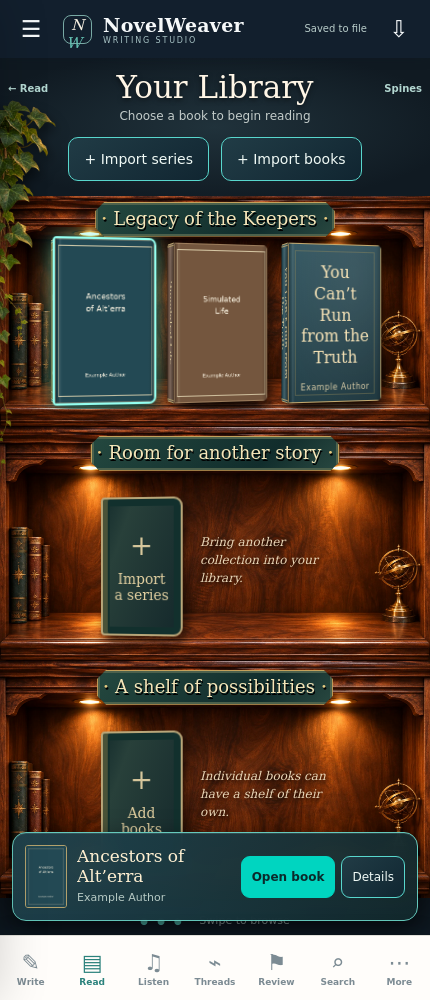
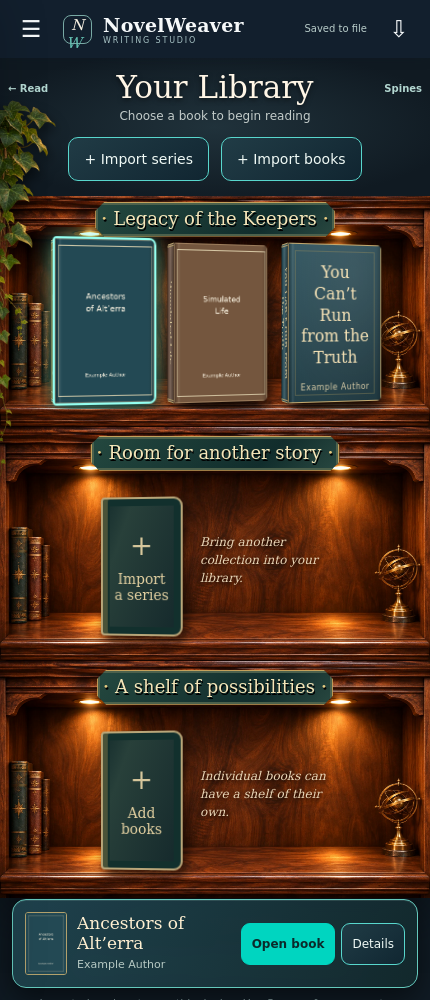
Hide bottom navigation while browsing the Bookcase in Android 2.3.6

Changed region(s): [[0.0, 0.806, 1.0, 1.0]]

diff --git a/app/src/main/assets/www/index.html b/app/src/main/assets/www/index.html
@@ -465,6 +465,11 @@ body.in-bookcase{background:#101b24}.in-bookcase .main-content{padding:0;max-wid
 /* A selected book becomes the inspection surface itself, without a dialog. */
 .bookcase-inspection{position:fixed;inset:0;z-index:55;perspective:1300px;isolation:isolate}.bookcase-inspect-shade{position:absolute;inset:0;width:100%;height:100%;border:0;background:#06131cbf;backdrop-filter:blur(4px);opacity:0;transition:opacity .5s}.bookcase-inspection.is-open .bookcase-inspect-shade{opacity:1}.bookcase-inspect-return{position:absolute;top:10px;left:50%;transform:translateX(-50%);min-height:44px;padding:10px 18px;border:1px solid #83bfb7;border-radius:24px;background:#132f37ed;color:#e3f6ec;font:13px var(--font-ui,sans-serif);white-space:nowrap;z-index:3}.bookcase-inspect-hint{position:absolute;bottom:max(16px,env(safe-area-inset-bottom));left:20px;right:20px;margin:0;text-align:center;color:#d3e8e1;font:12px/1.5 var(--font-ui,sans-serif);pointer-events:none;z-index:3}.bookcase-book.bookcase-inspected{--book-w:100%;--book-h:100%;position:fixed;margin:0;min-width:0;max-width:none;padding:0;z-index:2;touch-action:none;cursor:zoom-in;transition:left .55s cubic-bezier(.2,.7,.2,1),top .55s cubic-bezier(.2,.7,.2,1),width .55s cubic-bezier(.2,.7,.2,1),height .55s cubic-bezier(.2,.7,.2,1);perspective:none;outline-offset:6px}.bookcase-inspected .bookcase-volume{width:100%;height:100%;transform-style:preserve-3d;transform-origin:center;transition:transform .55s cubic-bezier(.2,.7,.2,1)}.bookcase-inspected:hover .bookcase-volume{transform:none}.bookcase-inspected .bookcase-cover{box-shadow:5px 12px 25px #0009}.bookcase-inspected .bookcase-cover img{object-fit:fill}.bookcase-book-back{position:absolute;inset:0;display:block;border-radius:4px 3px 3px 4px;transform:rotateY(180deg) translateZ(1px);backface-visibility:hidden;overflow:hidden;background:linear-gradient(140deg,#274a49,#142a30);box-shadow:0 16px 50px #0009;border:1px solid #c5b88a88}.bookcase-book-back>img{display:block;width:100%;height:100%;object-fit:fill;transform-origin:var(--pan-x,50%) var(--pan-y,50%);transition:transform .2s ease;user-select:none;pointer-events:none}.bookcase-book-back.is-zoomed>img{transform:scale(2)}.bookcase-inspect-missing{width:100%;height:100%;box-sizing:border-box;display:flex;flex-direction:column;justify-content:center;align-items:center;gap:24px;padding:30px;color:#f0e0b6;text-align:center;font:19px/1.5 Georgia,serif;border:6px double #ab946b88}.bookcase-inspect-missing strong{font:28px/1.3 Georgia,serif}.bookcase-inspect-missing small{font:13px/1.6 var(--font-ui,sans-serif);color:#c1d1c8}.bookcase-inspection button:focus-visible{outline:3px solid #79ddc9}.bookcase-inspected:after{display:none}.bookcase-inspect-slot{display:block;pointer-events:none}
 @media(prefers-reduced-motion:reduce){.bookcase-book.bookcase-inspected,.bookcase-inspected .bookcase-volume,.bookcase-inspect-shade,.bookcase-book-back>img{transition:none}}
+/* The bookcase uses its own Read return control instead of the bottom menu. */
+body.in-bookcase .bottom-nav{display:none}
+body.in-bookcase .bookcase-selection{bottom:calc(12px + env(safe-area-inset-bottom))}
+body.in-bookcase .bookcase-library{padding-bottom:124px}
+body.in-bookcase #quill-launcher{bottom:calc(136px + env(safe-area-inset-bottom))}
 
 </style><style>
 /* Compact running header in both native and fallback fullscreen readers. */

diff --git a/tools/bookcase.css b/tools/bookcase.css
@@ -27,3 +27,8 @@ body.in-bookcase{background:#101b24}.in-bookcase .main-content{padding:0;max-wid
 /* A selected book becomes the inspection surface itself, without a dialog. */
 .bookcase-inspection{position:fixed;inset:0;z-index:55;perspective:1300px;isolation:isolate}.bookcase-inspect-shade{position:absolute;inset:0;width:100%;height:100%;border:0;background:#06131cbf;backdrop-filter:blur(4px);opacity:0;transition:opacity .5s}.bookcase-inspection.is-open .bookcase-inspect-shade{opacity:1}.bookcase-inspect-return{position:absolute;top:10px;left:50%;transform:translateX(-50%);min-height:44px;padding:10px 18px;border:1px solid #83bfb7;border-radius:24px;background:#132f37ed;color:#e3f6ec;font:13px var(--font-ui,sans-serif);white-space:nowrap;z-index:3}.bookcase-inspect-hint{position:absolute;bottom:max(16px,env(safe-area-inset-bottom));left:20px;right:20px;margin:0;text-align:center;color:#d3e8e1;font:12px/1.5 var(--font-ui,sans-serif);pointer-events:none;z-index:3}.bookcase-book.bookcase-inspected{--book-w:100%;--book-h:100%;position:fixed;margin:0;min-width:0;max-width:none;padding:0;z-index:2;touch-action:none;cursor:zoom-in;transition:left .55s cubic-bezier(.2,.7,.2,1),top .55s cubic-bezier(.2,.7,.2,1),width .55s cubic-bezier(.2,.7,.2,1),height .55s cubic-bezier(.2,.7,.2,1);perspective:none;outline-offset:6px}.bookcase-inspected .bookcase-volume{width:100%;height:100%;transform-style:preserve-3d;transform-origin:center;transition:transform .55s cubic-bezier(.2,.7,.2,1)}.bookcase-inspected:hover .bookcase-volume{transform:none}.bookcase-inspected .bookcase-cover{box-shadow:5px 12px 25px #0009}.bookcase-inspected .bookcase-cover img{object-fit:fill}.bookcase-book-back{position:absolute;inset:0;display:block;border-radius:4px 3px 3px 4px;transform:rotateY(180deg) translateZ(1px);backface-visibility:hidden;overflow:hidden;background:linear-gradient(140deg,#274a49,#142a30);box-shadow:0 16px 50px #0009;border:1px solid #c5b88a88}.bookcase-book-back>img{display:block;width:100%;height:100%;object-fit:fill;transform-origin:var(--pan-x,50%) var(--pan-y,50%);transition:transform .2s ease;user-select:none;pointer-events:none}.bookcase-book-back.is-zoomed>img{transform:scale(2)}.bookcase-inspect-missing{width:100%;height:100%;box-sizing:border-box;display:flex;flex-direction:column;justify-content:center;align-items:center;gap:24px;padding:30px;color:#f0e0b6;text-align:center;font:19px/1.5 Georgia,serif;border:6px double #ab946b88}.bookcase-inspect-missing strong{font:28px/1.3 Georgia,serif}.bookcase-inspect-missing small{font:13px/1.6 var(--font-ui,sans-serif);color:#c1d1c8}.bookcase-inspection button:focus-visible{outline:3px solid #79ddc9}.bookcase-inspected:after{display:none}.bookcase-inspect-slot{display:block;pointer-events:none}
 @media(prefers-reduced-motion:reduce){.bookcase-book.bookcase-inspected,.bookcase-inspected .bookcase-volume,.bookcase-inspect-shade,.bookcase-book-back>img{transition:none}}
+/* The bookcase uses its own Read return control instead of the bottom menu. */
+body.in-bookcase .bottom-nav{display:none}
+body.in-bookcase .bookcase-selection{bottom:calc(12px + env(safe-area-inset-bottom))}
+body.in-bookcase .bookcase-library{padding-bottom:124px}
+body.in-bookcase #quill-launcher{bottom:calc(136px + env(safe-area-inset-bottom))}

diff --git a/README.md b/README.md
@@ -1,4 +1,4 @@
-# NovelWeaver for Android 2.3.5
+# NovelWeaver for Android 2.3.6
 
 An Android app with the current NovelWeaver editing interface and engine bundled
 offline. The native Android host handles files, Android Keystore encryption,
@@ -19,6 +19,8 @@ shelf scroll position. Reopening the book resumes its saved reading section.
 Use **Spines / Covers** to rotate the books, and swipe a shelf to browse.
 Books without artwork receive a titled cover. Animations respect reduced-motion
 preferences. The library works offline with no additional rendering download.
+The bottom navigation is hidden while browsing the Bookcase; use **← Read** to
+return to the reader. Book actions sit near the bottom edge.
 
 **Details** lifts the selected book out of its shelf, rotates it to the back,
 and enlarges it to fit most of the screen. The library stays visible behind it.

diff --git a/VALIDATION.md b/VALIDATION.md
@@ -1,5 +1,15 @@
 # Completed validation
 
+Version 2.3.6 hides the primary bottom navigation only while body.in-bookcase
+is active. The selected-book card moves into the freed space and the library
+bottom reserve is reduced; Quill remains above the book controls. Leaving the
+Bookcase restores the normal navigation through the existing view class toggle.
+
+The complete bundled UI flow passes, with visibility checks confirming no
+bottom menu in Bookcase and its restoration in Read. The phone layout was
+visually inspected. APK assembly and Android lint are run for this CSS-only
+change; native code and playback are retained.
+
 Version 2.3.5 targets the remaining blank band above the fullscreen running
 header. MainActivity already pads its root for status bars and the display
 cutout, while WebView can expose that same top inset through CSS env(). The
